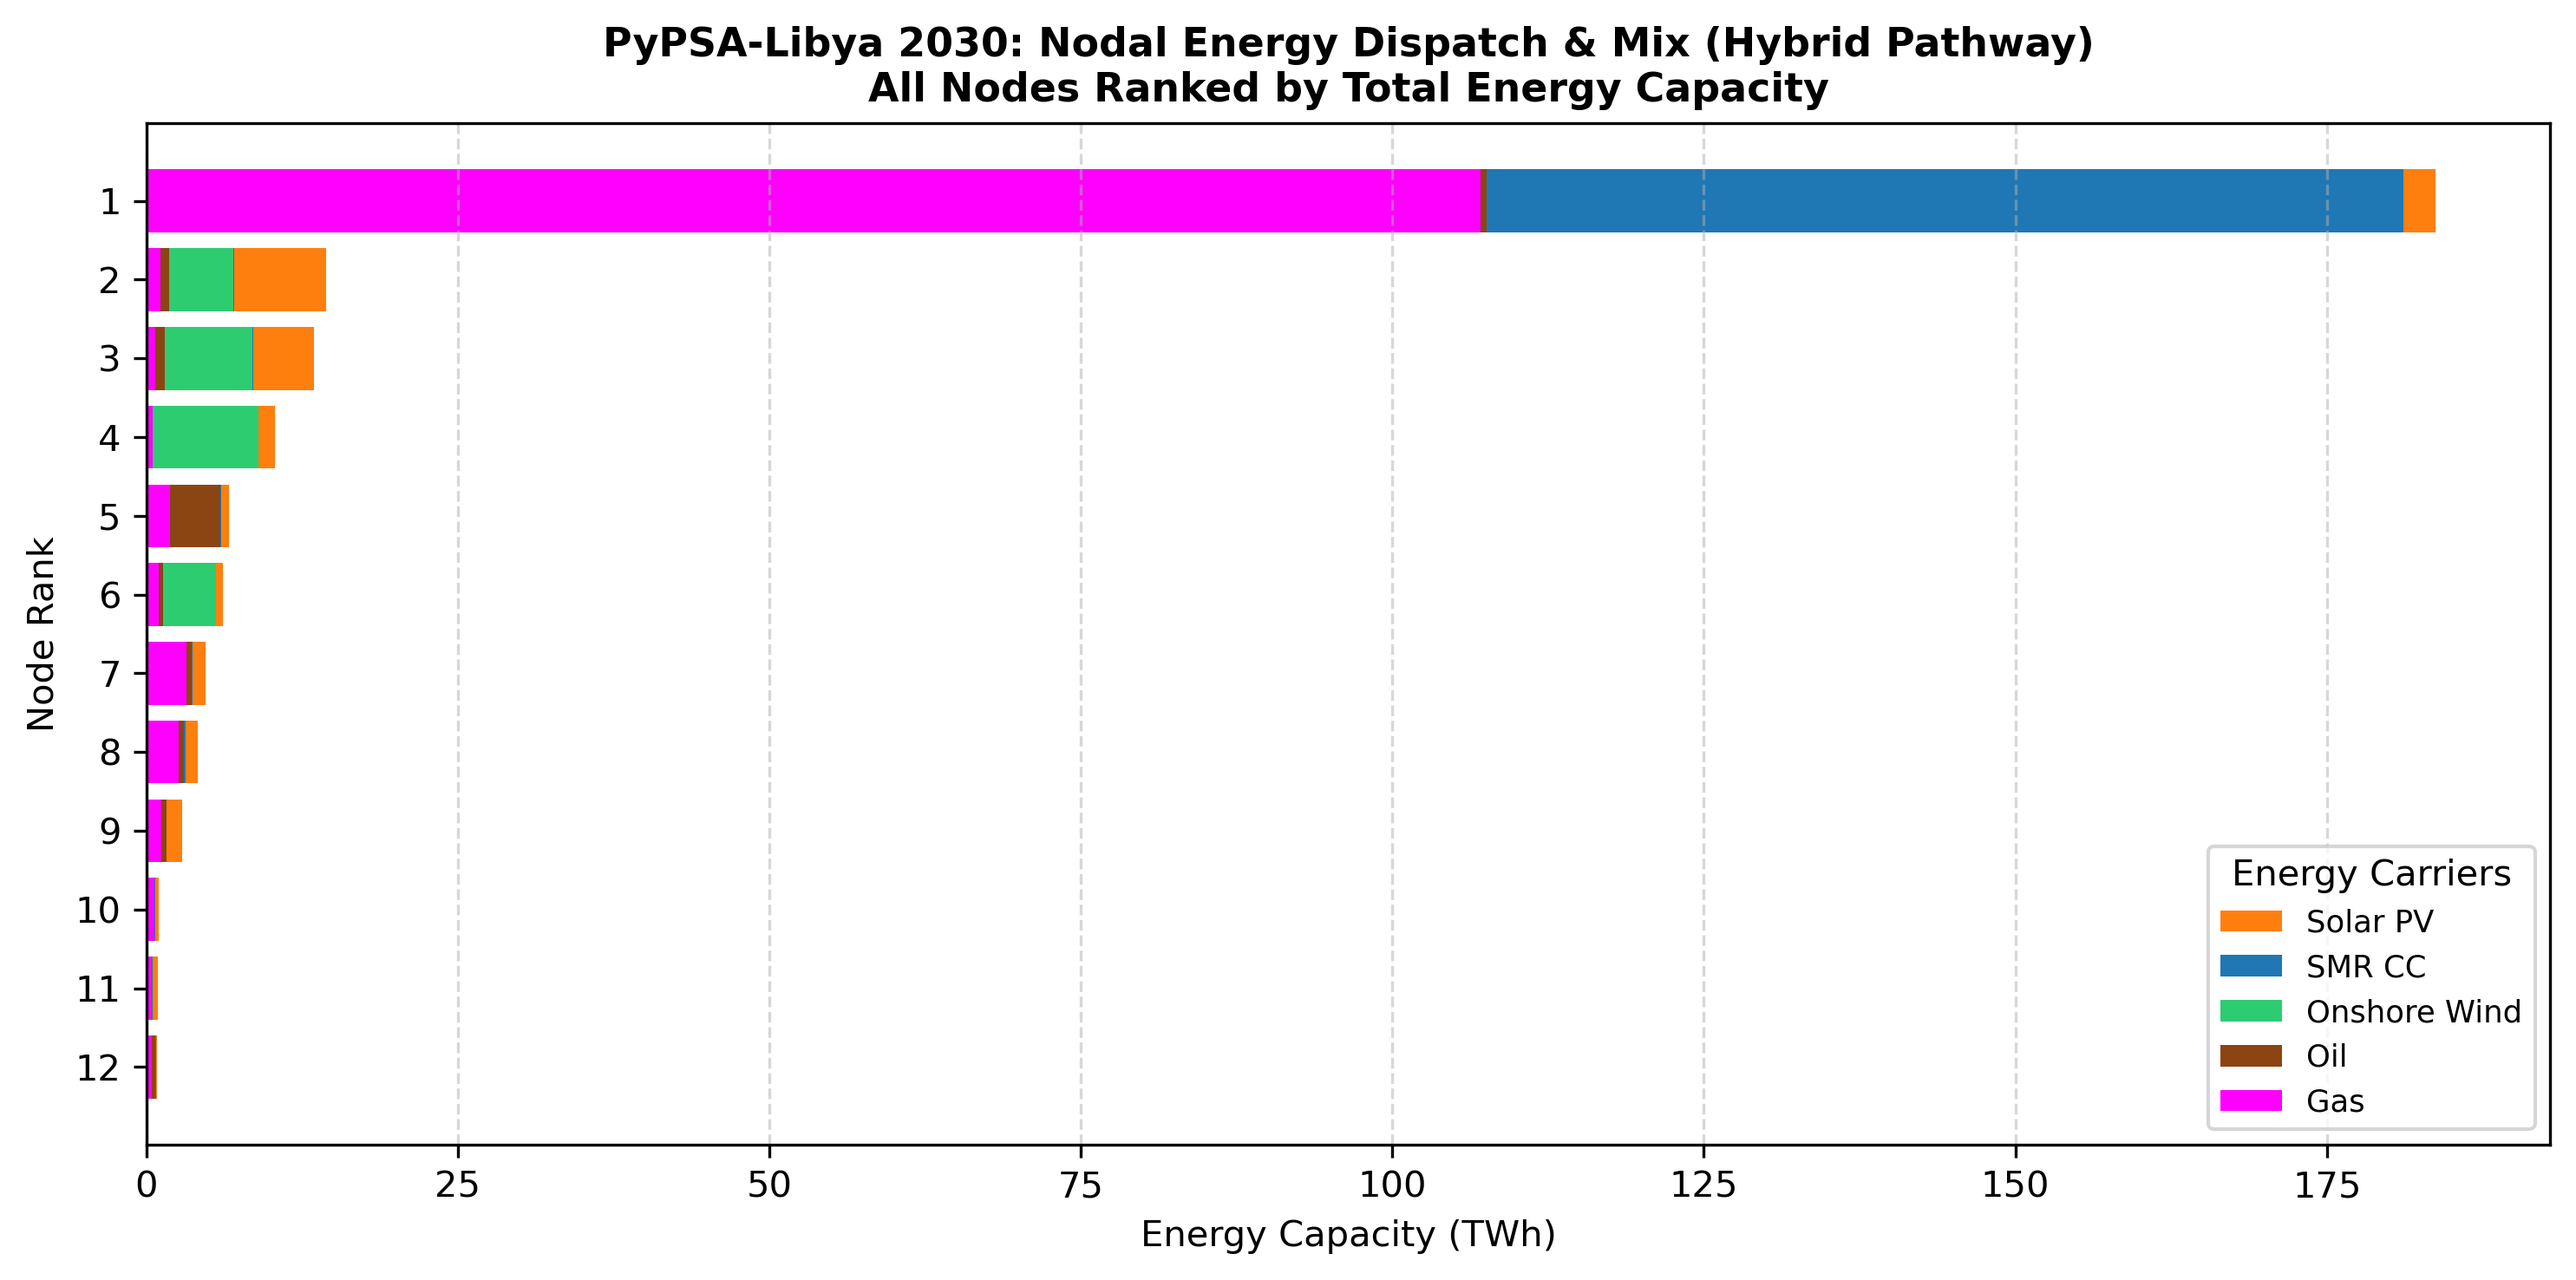
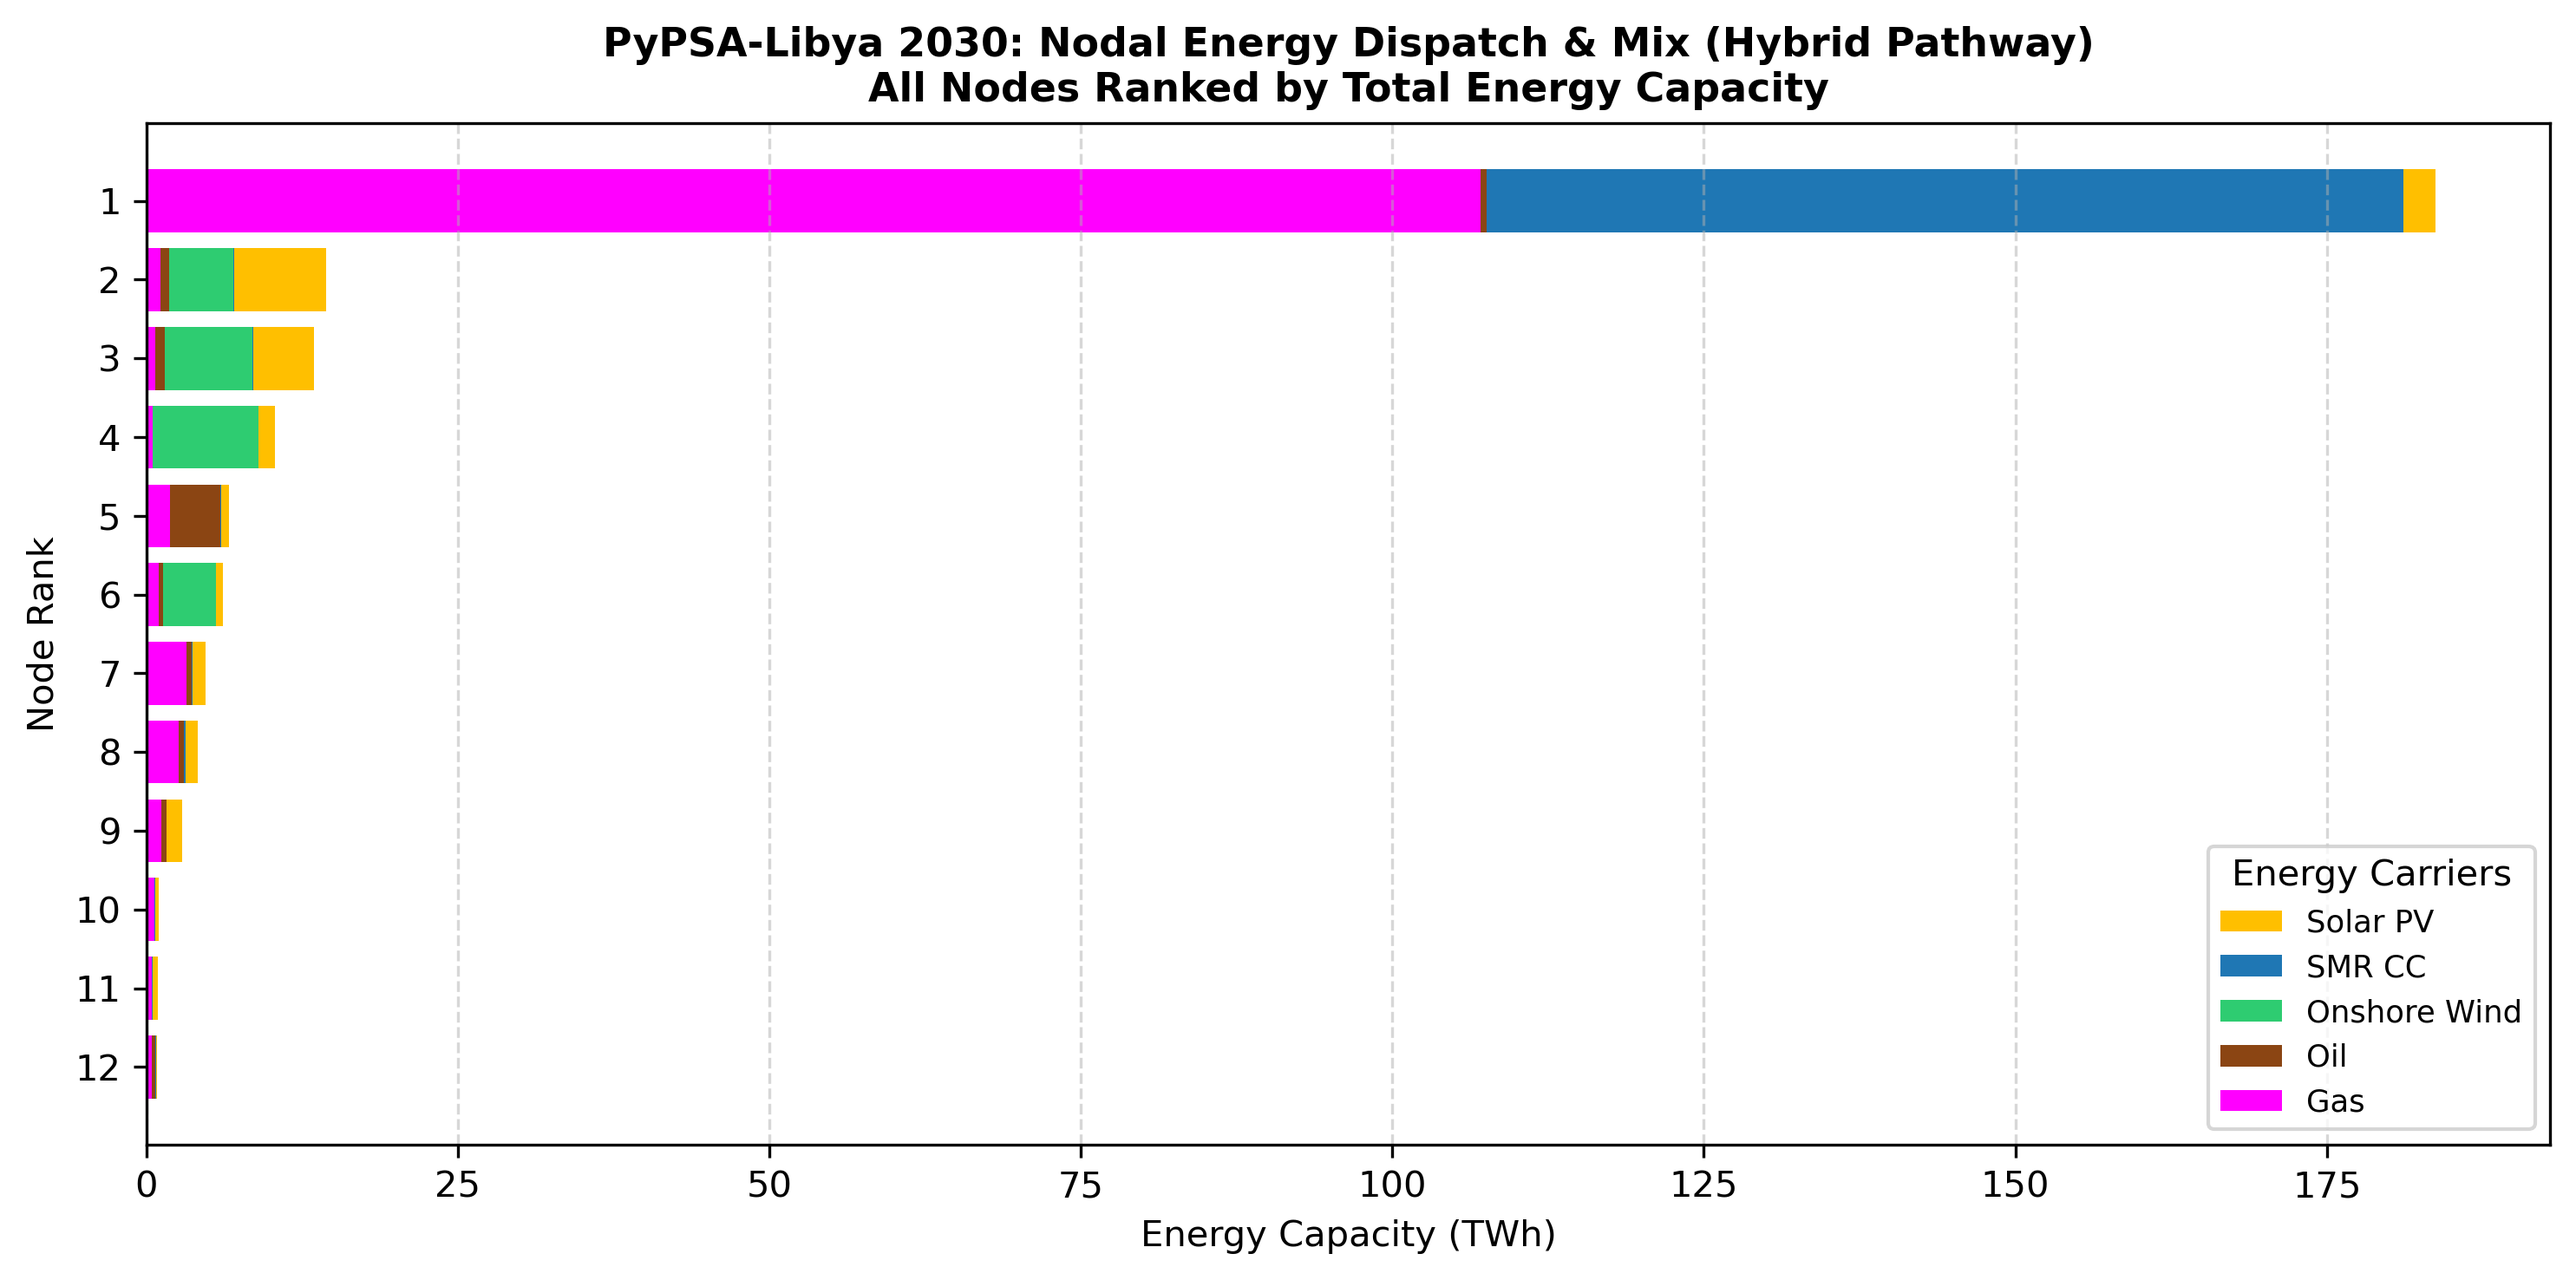
Add files via upload

diff --git a/viz_outputs/Validate_Energy_Conservation_All_Carriers/validate_all_carriers_energy_conservation.py b/viz_outputs/Validate_Energy_Conservation_All_Carriers/validate_all_carriers_energy_conservation.py
@@ -592,7 +592,7 @@ if __name__ == "__main__":
         
         CHART_COLORS = {
             "Onshore Wind": "#2ecc71",          # Green
-            "Solar PV": "#ff7f0e",              # Orange
+            "Solar PV": "#ffbf00",              # Amber (Yellow-Orange blend)
             "Oil": "#8b4513",                   # Brown
             "CCGT": "#e377c2",                  # Pink
             "Gas": "#ff00ff",                   # Magenta
@@ -736,7 +736,8 @@ if __name__ == "__main__":
         if HAS_CARTOPY:
             ax = fig.add_subplot(1, 1, 1, projection=ccrs.PlateCarree())
             ax.set_extent([9.0, 25.5, 19.0, 33.8], crs=ccrs.PlateCarree())
-            ax.add_feature(cfeature.LAND, facecolor="#f4f4f0", zorder=0)
+            # ax.add_feature(cfeature.LAND, facecolor="#f4f4f0", zorder=0)
+            ax.add_feature(cfeature.LAND, facecolor="#ffffff", zorder=0)  # Pure white background for high contrast
             ax.add_feature(cfeature.OCEAN, facecolor="#e0f2fe", zorder=0)
             ax.add_feature(cfeature.BORDERS, linestyle="--", edgecolor="#666666", linewidth=0.8, zorder=1)
             ax.add_feature(cfeature.COASTLINE, edgecolor="#333333", linewidth=1.0, zorder=1)
@@ -788,16 +789,53 @@ if __name__ == "__main__":
                 ys_land[0], ys_land[-1] = y0, y1
             return xs, ys_land
 
+
+        # ===================================================================
+        # TRANSMISSION LINE CAPACITY LOADING & COLOR BAR MAPPING
+        # (Adapted from Viz_compute_h2_hybrid.py Section 2.3)
+        # ===================================================================
+        import matplotlib.colors as mcolors
+
+        from matplotlib.colors import LinearSegmentedColormap
+
+        line_loading_series = pd.Series(0.0, index=n.lines.index)
+        if not n.lines.empty and not n.lines_t.p0.empty:
+            flows = n.lines_t.p0.abs()
+            caps = n.lines["s_nom_opt"] if "s_nom_opt" in n.lines.columns else n.lines["s_nom"]
+            caps = caps.replace(0, 1e-6)
+            loading_ratios = flows.div(caps, axis=1) * 100.0
+            line_loading_series = loading_ratios.mean(axis=0)
+
+        min_val, max_val = 0.0, max(line_loading_series.max() if not line_loading_series.empty else 1.0, 1.0)
+        norm_metric = mcolors.Normalize(vmin=min_val, vmax=max_val)
+        
+        # Truncate Reds colormap to start at 0.20 instead of 0.0 so low-loading lines are clearly visible
+        base_cmap = plt.colormaps.get_cmap("Reds") if hasattr(plt, "colormaps") else plt.cm.get_cmap("Reds")
+        cmap_lines = LinearSegmentedColormap.from_list(
+            "truncated_reds", base_cmap(np.linspace(0.20, 1.0, 100)))
+        
         if not n.lines.empty:
-            for _, row in n.lines.iterrows():
+            for idx, row in n.lines.iterrows():
                 b0, b1 = row["bus0"], row["bus1"]
                 if b0 in plot_buses.index and b1 in plot_buses.index:
                     x0, y0 = plot_buses.loc[b0, ["x", "y"]]
                     x1, y1 = plot_buses.loc[b1, ["x", "y"]]
                     if y0 > 33.0 or y1 > 33.0:
                         continue
+                    
+                    val = line_loading_series.get(idx, 0.0)
+                    # Map every line directly to the colormap based on its loading percentage
+                    line_color = cmap_lines(norm_metric(val))
+                    linewidth = 1.0 + 3.0 * norm_metric(val)
+                    
                     xs, ys = route_line_land(x0, y0, x1, y1)
-                    ax.plot(xs, ys, color="gray", lw=1.0, alpha=0.8, zorder=1)
+                    ax.plot(xs, ys, color=line_color, lw=linewidth, zorder=3, alpha=0.85)
+
+        # Attach Vertical Color Bar for Transmission Line Capacity Loading
+        sm_line = plt.cm.ScalarMappable(cmap=cmap_lines, norm=norm_metric)
+        sm_line.set_array([])
+        cbar = fig.colorbar(sm_line, ax=ax, orientation="vertical", shrink=0.7, pad=0.03)
+        cbar.set_label("Mean Capacity Loading (%)", fontsize=10)
 
 
         max_energy = nodal_mix.sum(axis=1).max() if not nodal_mix.empty and nodal_mix.sum(axis=1).max() > 0 else 1.0
